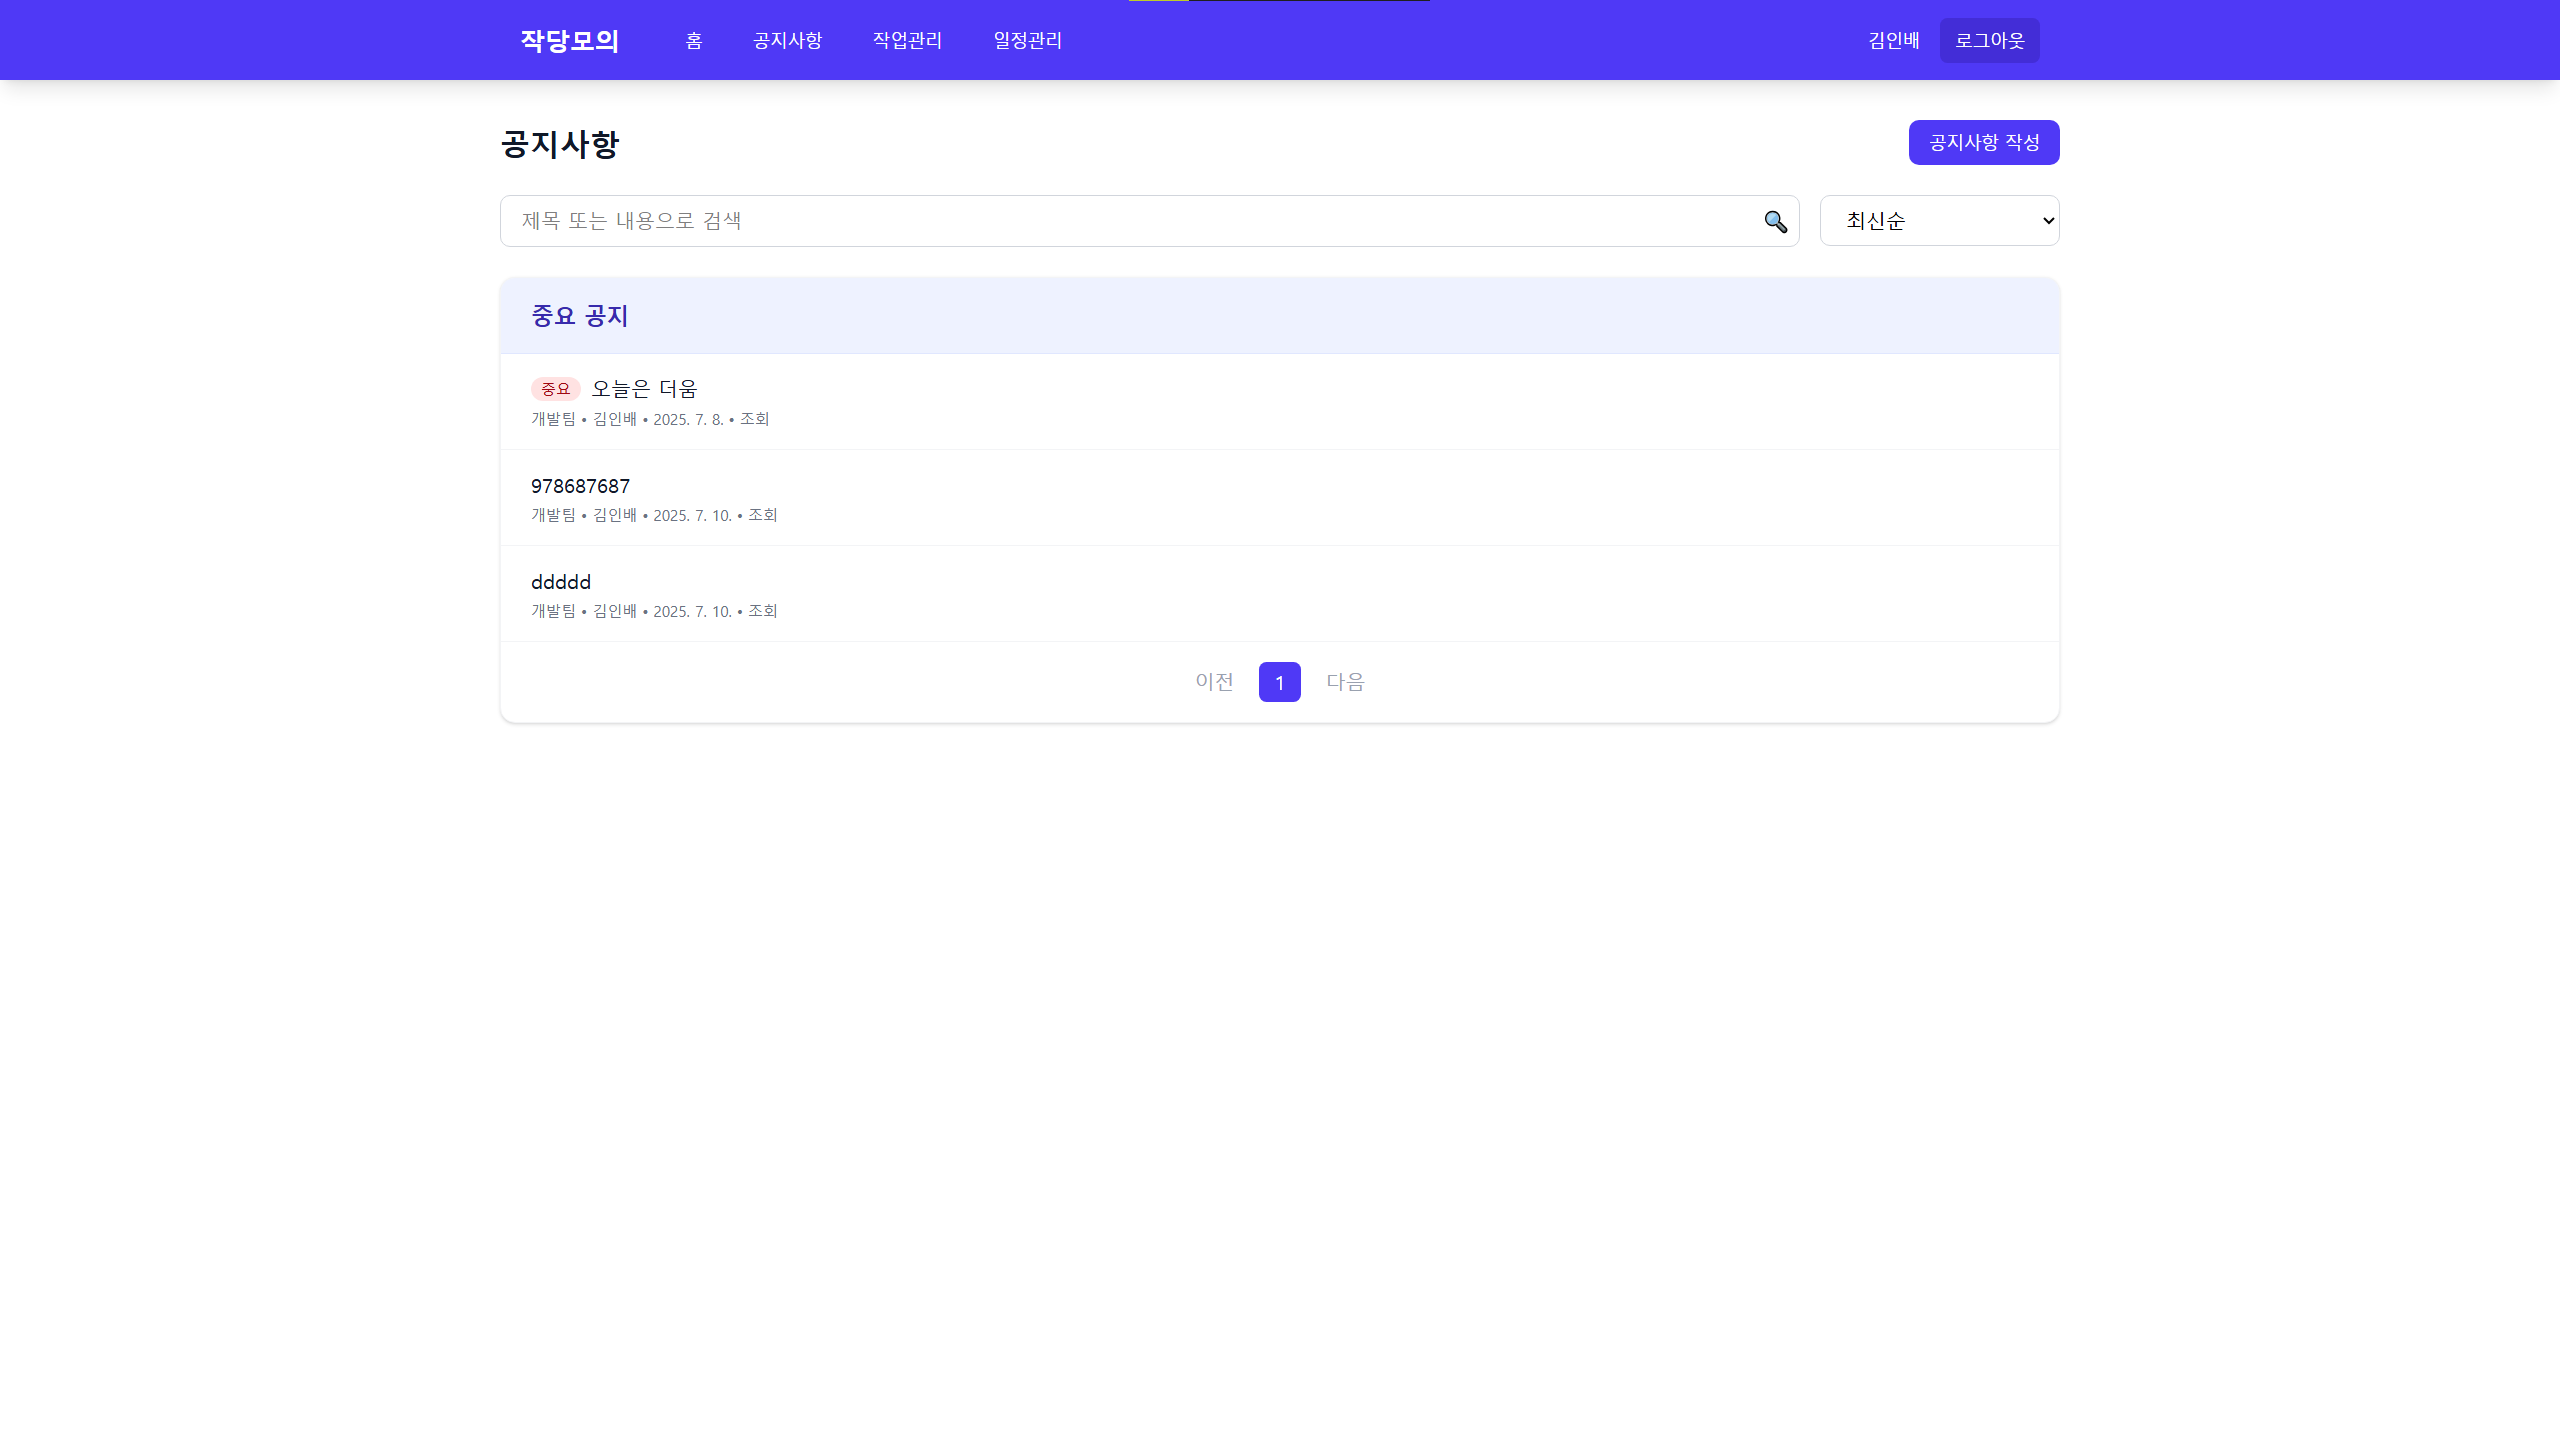
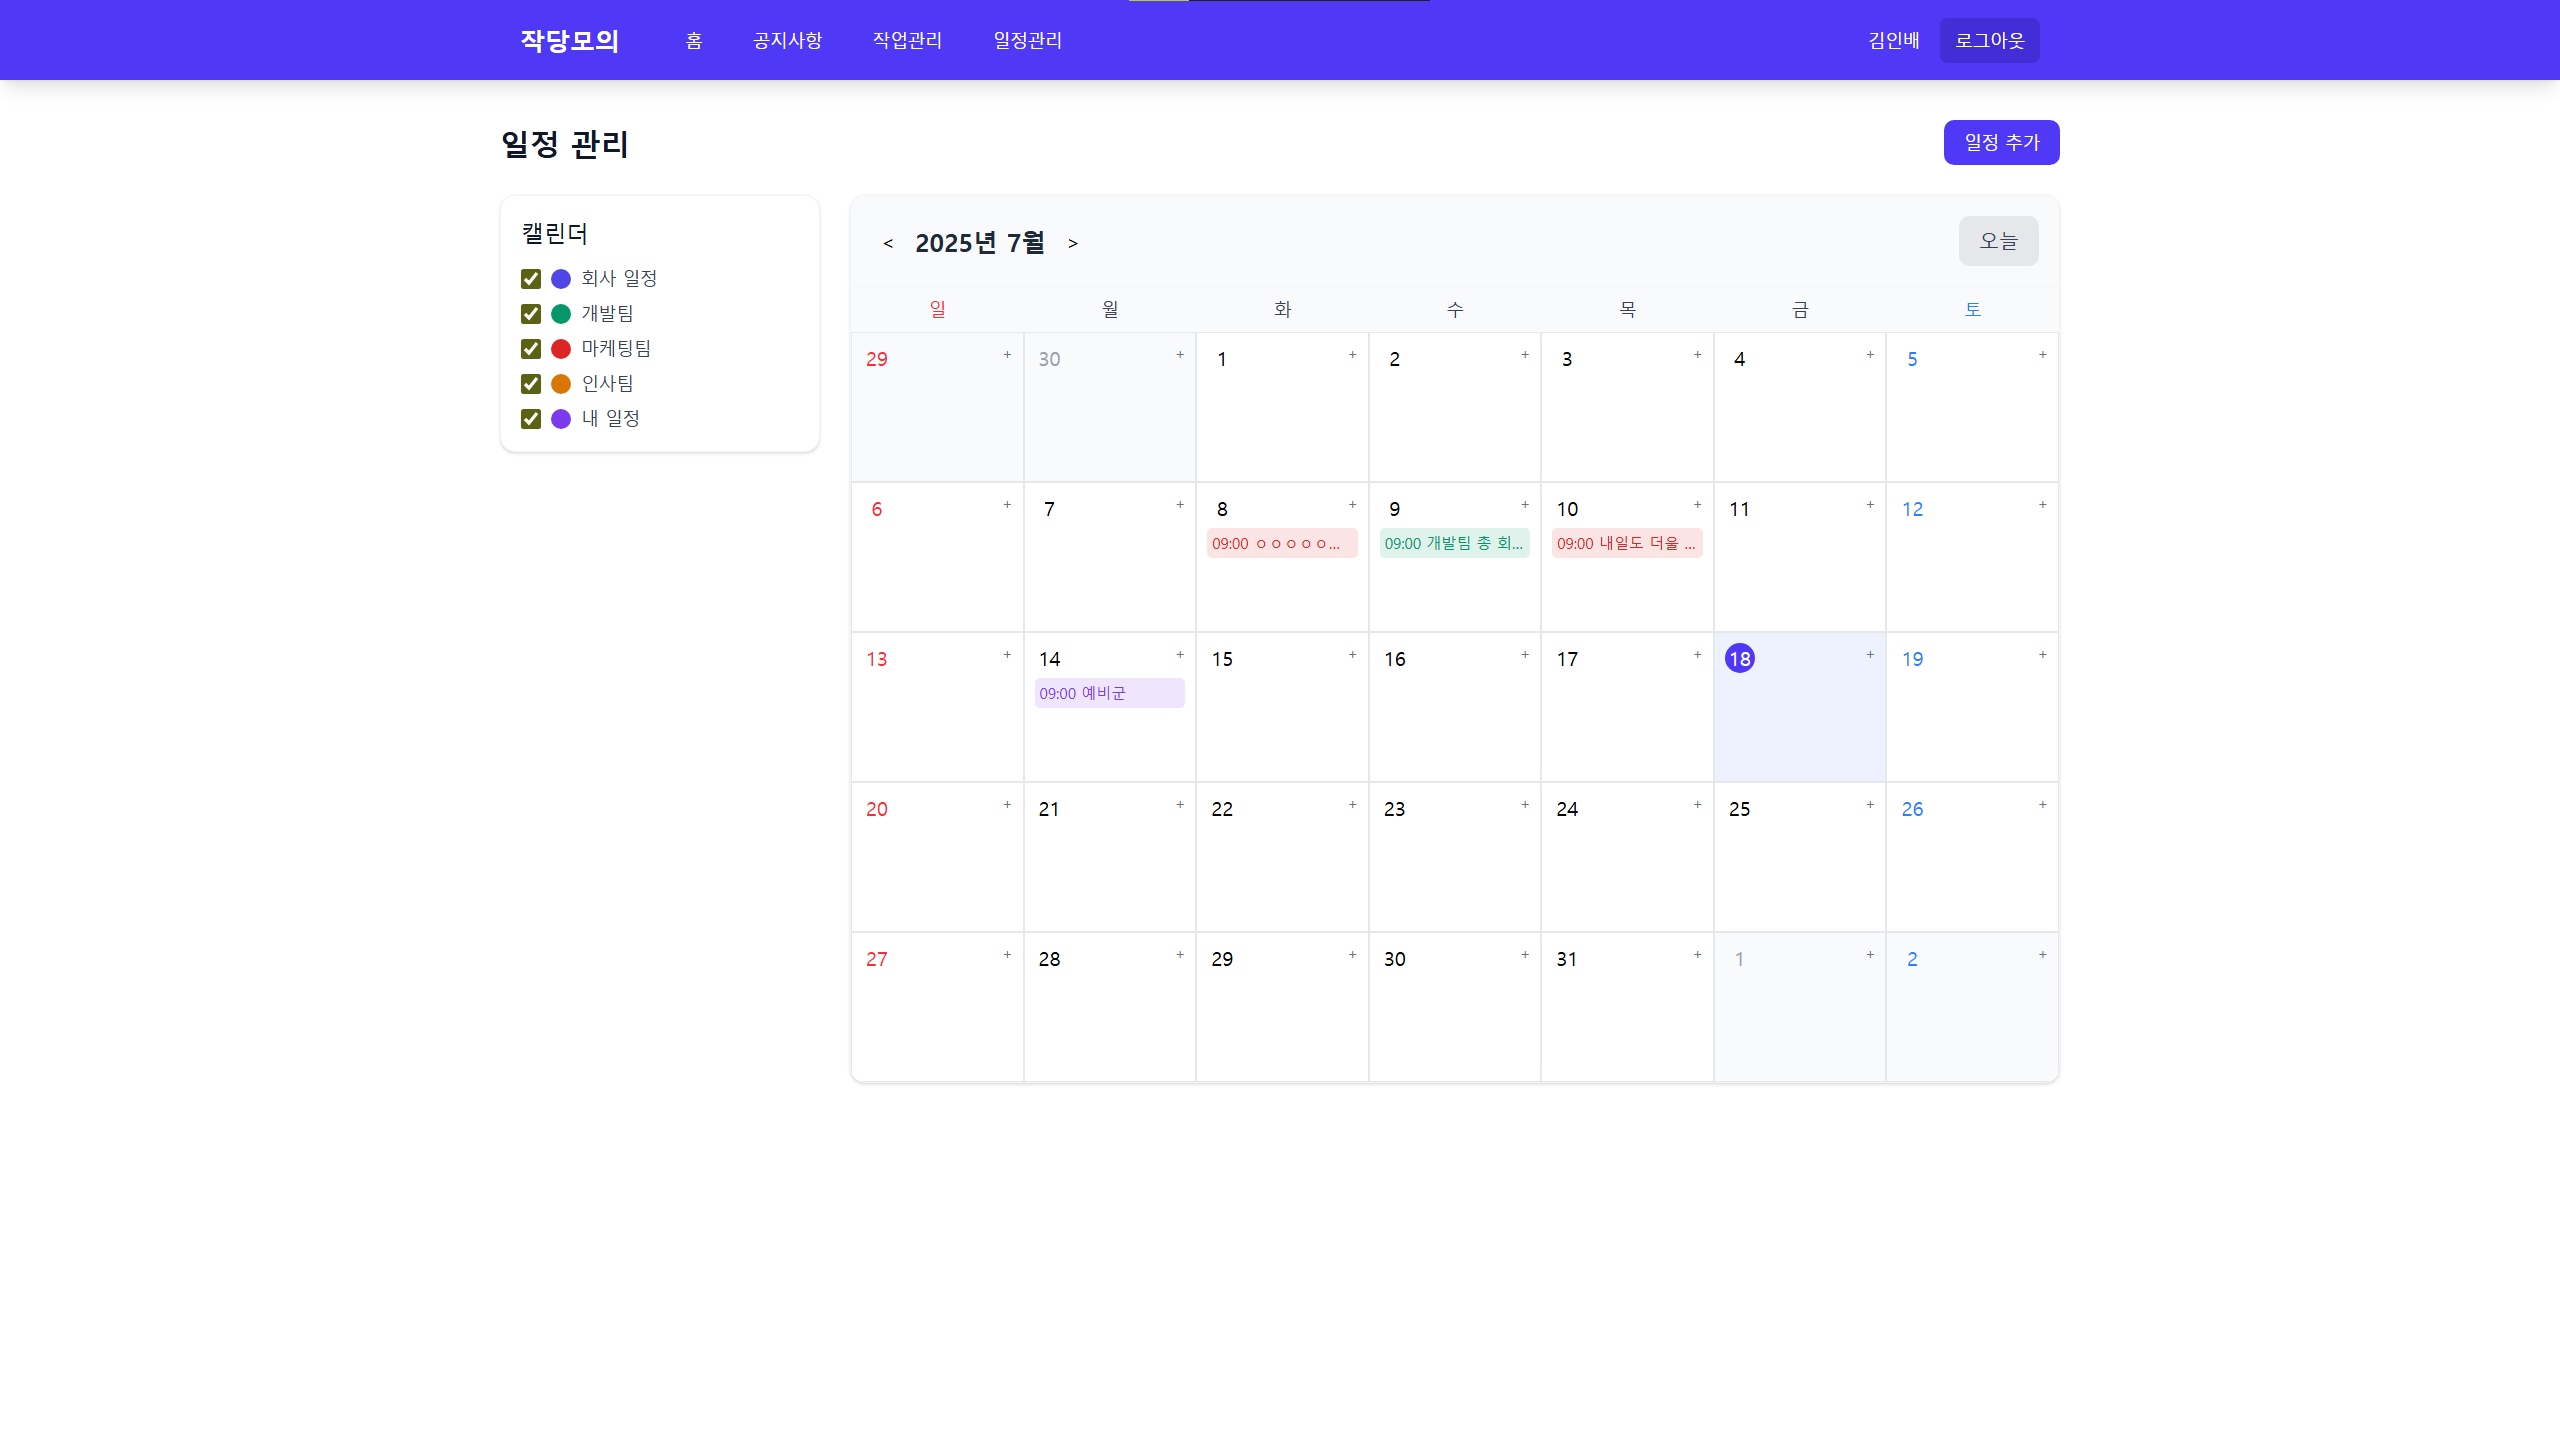
260419 이미지 수정
작당모의 이미지 중복 수정

diff --git a/src/data/project.js b/src/data/project.js
@@ -122,7 +122,7 @@ const projects = [
     images: [
       ZakdangmoiLogo,
       ...Array.from(
-        { length: 8 },
+        { length: 7 },
         (_, i) => `/assets/ZAKDANGMOI/zakdangmoi${i + 1}.png`
       ),
     ],
